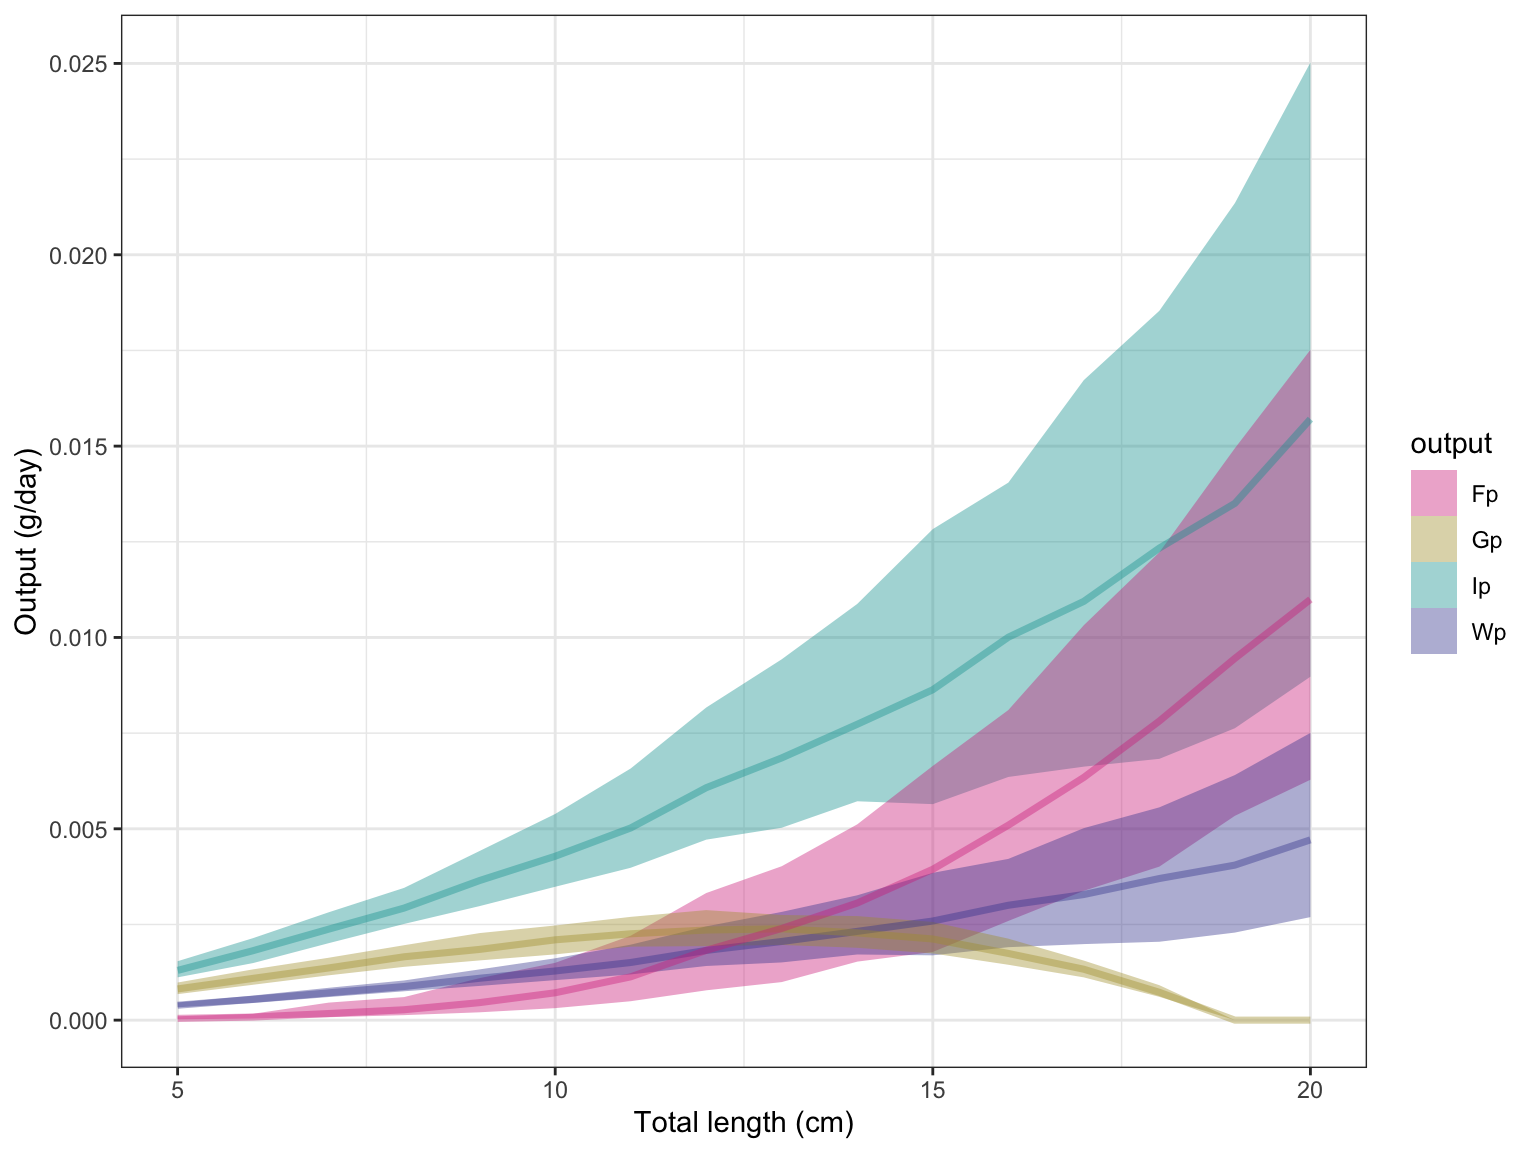
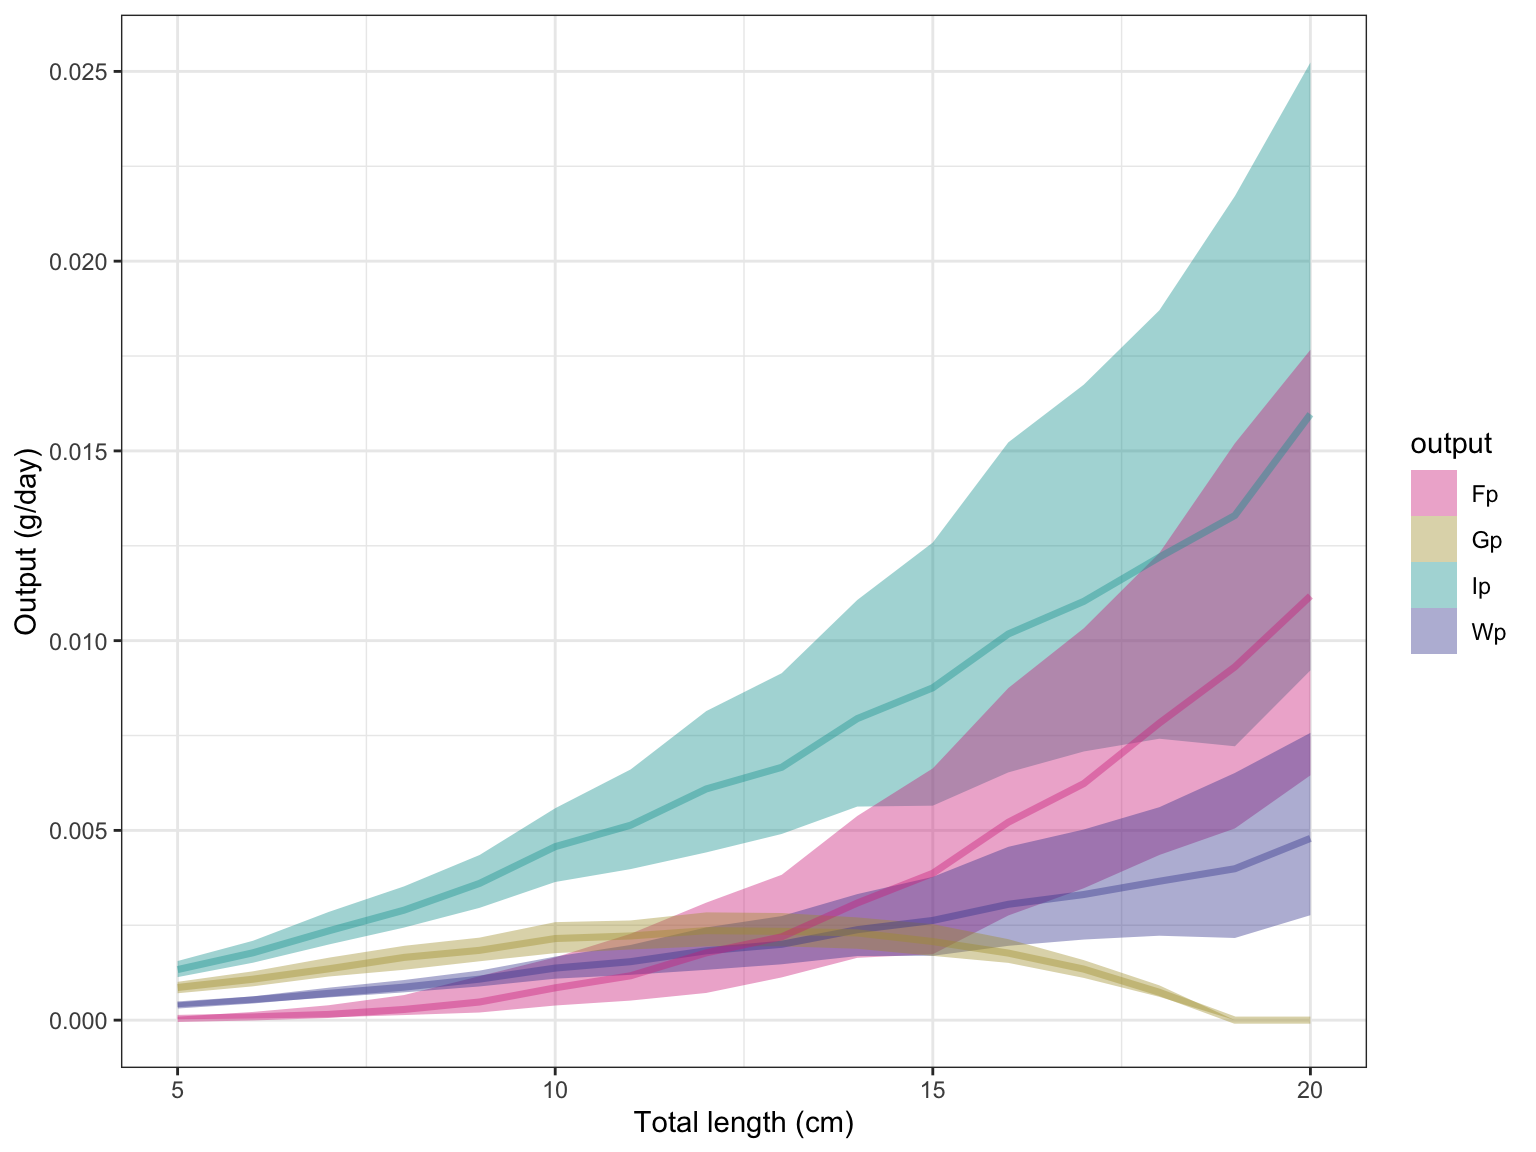
Built site for fishflux: 0.0.0.9001@0e7fffb

diff --git a/articles/intro_to_fishflux.html b/articles/intro_to_fishflux.html
@@ -411,7 +411,7 @@ Elemental stoichiometry of diet
 <span class="co">#&gt;            species    t0 Linf     k     asp troph   lwa_m      lwa_sd lwb_m</span>
 <span class="co">#&gt; 1 Zebrasoma scopas -0.49 13.3 0.425 2.02091     2 0.02455 0.002627551  2.98</span>
 <span class="co">#&gt;      lwb_sd     mdw_m        f0_m        f0_sd alpha_m   alpha_sd</span>
-<span class="co">#&gt; 1 0.0255102 0.2504833 0.001517989 3.082196e-10    0.77 0.05286288</span>
+<span class="co">#&gt; 1 0.0255102 0.2504833 0.001517989 3.251194e-10    0.77 0.05286288</span>
 </pre></div>
 
 <p>All other parameters have to be provided by the user. For more information on how to acquire these parameters, take a look at (“this paper” add reference to methods paper).</p>
@@ -432,56 +432,56 @@ Elemental stoichiometry of diet
 <div class="sourceCode" id="cb10"><pre class="downlit">
 <span class="kw">fishflux</span>::<span class="fu"><a href="../reference/extract.html">extract</a></span>(<span class="kw">model</span>, <span class="fu"><a href="https://rdrr.io/r/base/c.html">c</a></span>(<span class="st">"Fn"</span>,<span class="st">"Fp"</span>))
 <span class="co">#&gt;    TL      Fn_mean    Fn_median        Fn_sd      Fn_2.5%    Fn_97.5%</span>
-<span class="co">#&gt; 1   5 0.0008973864 0.0008402437 0.0004444290 0.0002333421 0.001879536</span>
-<span class="co">#&gt; 2   6 0.0013699344 0.0012438949 0.0007036049 0.0003198092 0.003063905</span>
-<span class="co">#&gt; 3   7 0.0018701050 0.0017496842 0.0008734186 0.0003704064 0.003991807</span>
-<span class="co">#&gt; 4   8 0.0025045966 0.0023291202 0.0012649705 0.0007505127 0.005345092</span>
-<span class="co">#&gt; 5   9 0.0033714890 0.0030543064 0.0017316173 0.0008836630 0.007477043</span>
-<span class="co">#&gt; 6  10 0.0043519150 0.0038948550 0.0022062143 0.0010835466 0.009336949</span>
-<span class="co">#&gt; 7  11 0.0056962724 0.0049892906 0.0032996295 0.0014976045 0.014524364</span>
-<span class="co">#&gt; 8  12 0.0075219479 0.0064295319 0.0043269960 0.0016879479 0.017440315</span>
-<span class="co">#&gt; 9  13 0.0090388529 0.0079362567 0.0057043729 0.0016421816 0.022716046</span>
-<span class="co">#&gt; 10 14 0.0113316157 0.0097980744 0.0070104113 0.0021770264 0.028469653</span>
-<span class="co">#&gt; 11 15 0.0134769548 0.0118222908 0.0087701298 0.0025858053 0.034553215</span>
-<span class="co">#&gt; 12 16 0.0160966227 0.0146063755 0.0101301851 0.0033961903 0.040532437</span>
-<span class="co">#&gt; 13 17 0.0198227059 0.0168801943 0.0133433160 0.0037592839 0.053174221</span>
-<span class="co">#&gt; 14 18 0.0226041481 0.0207471466 0.0143988326 0.0050845503 0.056185557</span>
-<span class="co">#&gt; 15 19 0.0271899699 0.0241148283 0.0173218128 0.0066846655 0.070204920</span>
-<span class="co">#&gt; 16 20 0.0317759587 0.0275741691 0.0196381427 0.0076637917 0.081619745</span>
+<span class="co">#&gt; 1   5 0.0009281694 0.0008659754 0.0004569311 0.0002199826 0.001956606</span>
+<span class="co">#&gt; 2   6 0.0012819426 0.0011783659 0.0005798542 0.0004133299 0.002684022</span>
+<span class="co">#&gt; 3   7 0.0018694803 0.0018053892 0.0008218627 0.0005521829 0.003561672</span>
+<span class="co">#&gt; 4   8 0.0025204011 0.0023085524 0.0012995009 0.0005735142 0.005840968</span>
+<span class="co">#&gt; 5   9 0.0033384245 0.0031103938 0.0016918953 0.0006539831 0.007254373</span>
+<span class="co">#&gt; 6  10 0.0046335154 0.0042371487 0.0023601917 0.0010801570 0.010350598</span>
+<span class="co">#&gt; 7  11 0.0057504984 0.0050394494 0.0031808788 0.0013548120 0.013801743</span>
+<span class="co">#&gt; 8  12 0.0073421369 0.0067742768 0.0041662015 0.0015701969 0.016894169</span>
+<span class="co">#&gt; 9  13 0.0088172976 0.0077278045 0.0053759257 0.0018505833 0.021089698</span>
+<span class="co">#&gt; 10 14 0.0114721462 0.0098725791 0.0069764626 0.0027319266 0.027900179</span>
+<span class="co">#&gt; 11 15 0.0135980894 0.0115994934 0.0093801412 0.0028752909 0.038594147</span>
+<span class="co">#&gt; 12 16 0.0168944415 0.0147250359 0.0105112084 0.0032385315 0.041179640</span>
+<span class="co">#&gt; 13 17 0.0196402448 0.0170246379 0.0121009149 0.0045326671 0.050115652</span>
+<span class="co">#&gt; 14 18 0.0233476791 0.0204928565 0.0150033839 0.0054589316 0.062057033</span>
+<span class="co">#&gt; 15 19 0.0273114734 0.0235886012 0.0175179466 0.0063404065 0.067872156</span>
+<span class="co">#&gt; 16 20 0.0325882222 0.0277891315 0.0202686529 0.0079621075 0.084653380</span>
 <span class="co">#&gt;          Fn_25%      Fn_75%      Fp_mean    Fp_median        Fp_sd      Fp_2.5%</span>
-<span class="co">#&gt; 1  0.0005743745 0.001155313 8.774324e-05 4.643359e-05 0.0001091623 3.165912e-06</span>
-<span class="co">#&gt; 2  0.0008829448 0.001738109 1.558675e-04 8.094844e-05 0.0002016339 5.971360e-06</span>
-<span class="co">#&gt; 3  0.0013060296 0.002308565 2.997282e-04 1.727628e-04 0.0003207941 1.144542e-05</span>
-<span class="co">#&gt; 4  0.0016120786 0.003119120 4.386469e-04 2.718923e-04 0.0004632243 1.420633e-05</span>
-<span class="co">#&gt; 5  0.0020231877 0.004470988 7.160157e-04 4.582179e-04 0.0006796237 2.484443e-05</span>
-<span class="co">#&gt; 6  0.0028177020 0.005644213 1.026195e-03 7.151657e-04 0.0009192770 6.396884e-05</span>
-<span class="co">#&gt; 7  0.0032826562 0.007367547 1.548694e-03 1.132374e-03 0.0013613696 6.926220e-05</span>
-<span class="co">#&gt; 8  0.0043257624 0.009811102 2.226647e-03 1.824850e-03 0.0017800337 1.711531e-04</span>
-<span class="co">#&gt; 9  0.0045723736 0.012032063 2.858262e-03 2.396093e-03 0.0023108097 1.754942e-04</span>
-<span class="co">#&gt; 10 0.0060479773 0.014912618 3.731213e-03 3.060895e-03 0.0027929688 3.256895e-04</span>
-<span class="co">#&gt; 11 0.0061185375 0.018799686 4.649709e-03 3.942666e-03 0.0035084212 5.327552e-04</span>
-<span class="co">#&gt; 12 0.0080802405 0.021537310 5.832048e-03 5.094483e-03 0.0040833045 6.400054e-04</span>
-<span class="co">#&gt; 13 0.0095142853 0.026677803 7.437573e-03 6.343476e-03 0.0052930801 1.154052e-03</span>
-<span class="co">#&gt; 14 0.0107903820 0.031459901 8.746435e-03 7.815710e-03 0.0057493792 1.771473e-03</span>
-<span class="co">#&gt; 15 0.0134425896 0.037652720 1.082054e-02 9.453162e-03 0.0069252565 2.631722e-03</span>
-<span class="co">#&gt; 16 0.0157553289 0.043595604 1.260758e-02 1.099442e-02 0.0078172926 3.035192e-03</span>
-<span class="co">#&gt;       Fp_97.5%       Fp_25%       Fp_75%</span>
-<span class="co">#&gt; 1  0.000423921 2.245866e-05 0.0001013118</span>
-<span class="co">#&gt; 2  0.000796311 4.136876e-05 0.0001672309</span>
-<span class="co">#&gt; 3  0.001222921 7.644075e-05 0.0004579868</span>
-<span class="co">#&gt; 4  0.001723362 1.306619e-04 0.0006028123</span>
-<span class="co">#&gt; 5  0.002534029 2.049061e-04 0.0010982272</span>
-<span class="co">#&gt; 6  0.003317567 3.140242e-04 0.0014980154</span>
-<span class="co">#&gt; 7  0.005230469 4.946776e-04 0.0022069960</span>
-<span class="co">#&gt; 8  0.006374361 7.793924e-04 0.0033215973</span>
-<span class="co">#&gt; 9  0.008659369 9.951417e-04 0.0040224937</span>
-<span class="co">#&gt; 10 0.010959376 1.529210e-03 0.0051170303</span>
-<span class="co">#&gt; 11 0.013152782 1.782154e-03 0.0066432597</span>
-<span class="co">#&gt; 12 0.015201655 2.592387e-03 0.0081035034</span>
-<span class="co">#&gt; 13 0.020238837 3.380110e-03 0.0103206930</span>
-<span class="co">#&gt; 14 0.022597260 4.012156e-03 0.0122250775</span>
-<span class="co">#&gt; 15 0.028374390 5.339702e-03 0.0149444788</span>
-<span class="co">#&gt; 16 0.032135296 6.282571e-03 0.0175172456</span>
+<span class="co">#&gt; 1  0.0006098399 0.001177332 8.342372e-05 4.476996e-05 0.0001042289 2.442238e-06</span>
+<span class="co">#&gt; 2  0.0008765401 0.001625477 1.624133e-04 8.568733e-05 0.0001878046 5.370838e-06</span>
+<span class="co">#&gt; 3  0.0012444900 0.002383563 2.742967e-04 1.507626e-04 0.0002938958 8.982261e-06</span>
+<span class="co">#&gt; 4  0.0016463066 0.003167944 4.756463e-04 2.815605e-04 0.0004991528 1.642529e-05</span>
+<span class="co">#&gt; 5  0.0021497741 0.004190879 7.368006e-04 4.785230e-04 0.0006974520 3.028640e-05</span>
+<span class="co">#&gt; 6  0.0029549240 0.005928661 1.134010e-03 8.512178e-04 0.0009566593 5.010628e-05</span>
+<span class="co">#&gt; 7  0.0033379343 0.007377014 1.547431e-03 1.170286e-03 0.0012673631 1.144489e-04</span>
+<span class="co">#&gt; 8  0.0039461089 0.009955279 2.140757e-03 1.773340e-03 0.0016909116 1.718569e-04</span>
+<span class="co">#&gt; 9  0.0047229149 0.011768260 2.716215e-03 2.195573e-03 0.0021140953 1.954099e-04</span>
+<span class="co">#&gt; 10 0.0060890675 0.015629586 3.805222e-03 3.086531e-03 0.0028227781 4.221331e-04</span>
+<span class="co">#&gt; 11 0.0063229858 0.018261827 4.705750e-03 3.869831e-03 0.0037605951 4.365811e-04</span>
+<span class="co">#&gt; 12 0.0085259859 0.023272454 6.105803e-03 5.215040e-03 0.0041804130 6.826402e-04</span>
+<span class="co">#&gt; 13 0.0099568078 0.026725322 7.375689e-03 6.234409e-03 0.0048734543 1.271907e-03</span>
+<span class="co">#&gt; 14 0.0119001184 0.031605635 9.060092e-03 7.827924e-03 0.0060207850 1.877304e-03</span>
+<span class="co">#&gt; 15 0.0127908758 0.038023313 1.084308e-02 9.309632e-03 0.0069654747 2.525014e-03</span>
+<span class="co">#&gt; 16 0.0162165097 0.043851835 1.296883e-02 1.117617e-02 0.0080593285 3.201843e-03</span>
+<span class="co">#&gt;        Fp_97.5%       Fp_25%       Fp_75%</span>
+<span class="co">#&gt; 1  0.0003636682 2.309581e-05 9.173055e-05</span>
+<span class="co">#&gt; 2  0.0006584219 4.336034e-05 2.169618e-04</span>
+<span class="co">#&gt; 3  0.0010934448 7.243350e-05 3.930033e-04</span>
+<span class="co">#&gt; 4  0.0017098075 1.337231e-04 6.617568e-04</span>
+<span class="co">#&gt; 5  0.0025167948 2.016068e-04 1.160095e-03</span>
+<span class="co">#&gt; 6  0.0035044677 3.854189e-04 1.654114e-03</span>
+<span class="co">#&gt; 7  0.0046112883 5.160084e-04 2.276485e-03</span>
+<span class="co">#&gt; 8  0.0060888384 7.168290e-04 3.096195e-03</span>
+<span class="co">#&gt; 9  0.0078415927 1.126542e-03 3.830504e-03</span>
+<span class="co">#&gt; 10 0.0106340646 1.642232e-03 5.380117e-03</span>
+<span class="co">#&gt; 11 0.0141158779 1.737974e-03 6.634556e-03</span>
+<span class="co">#&gt; 12 0.0161140540 2.758546e-03 8.751484e-03</span>
+<span class="co">#&gt; 13 0.0193733987 3.475924e-03 1.032715e-02</span>
+<span class="co">#&gt; 14 0.0241340519 4.352340e-03 1.230944e-02</span>
+<span class="co">#&gt; 15 0.0264322444 5.051853e-03 1.519994e-02</span>
+<span class="co">#&gt; 16 0.0334280069 6.451905e-03 1.766444e-02</span>
 </pre></div>
 
 </div>
@@ -503,45 +503,45 @@ Elemental stoichiometry of diet
 #&gt; 6  10        c    0.000
 #&gt; 7  11        c    0.000
 #&gt; 8  12        c    0.002
-#&gt; 9  13        c    0.002
-#&gt; 10 14        c    0.002
-#&gt; 11 15        c    0.014
-#&gt; 12 16        c    0.036
+#&gt; 9  13        c    0.006
+#&gt; 10 14        c    0.004
+#&gt; 11 15        c    0.022
+#&gt; 12 16        c    0.034
 #&gt; 13 17        c    0.070
-#&gt; 14 18        c    0.116
-#&gt; 15 19        c    0.168
-#&gt; 16 20        c    0.162
-#&gt; 17  5        n    0.356
-#&gt; 18  6        n    0.378
-#&gt; 19  7        n    0.498
-#&gt; 20  8        n    0.540
-#&gt; 21  9        n    0.624
-#&gt; 22 10        n    0.678
-#&gt; 23 11        n    0.734
-#&gt; 24 12        n    0.770
-#&gt; 25 13        n    0.802
-#&gt; 26 14        n    0.840
-#&gt; 27 15        n    0.830
-#&gt; 28 16        n    0.842
-#&gt; 29 17        n    0.862
-#&gt; 30 18        n    0.838
-#&gt; 31 19        n    0.818
-#&gt; 32 20        n    0.822
-#&gt; 33  5        p    0.644
-#&gt; 34  6        p    0.622
-#&gt; 35  7        p    0.502
-#&gt; 36  8        p    0.460
-#&gt; 37  9        p    0.376
-#&gt; 38 10        p    0.322
-#&gt; 39 11        p    0.266
-#&gt; 40 12        p    0.228
-#&gt; 41 13        p    0.196
-#&gt; 42 14        p    0.158
-#&gt; 43 15        p    0.156
-#&gt; 44 16        p    0.122
-#&gt; 45 17        p    0.068
-#&gt; 46 18        p    0.046
-#&gt; 47 19        p    0.014
+#&gt; 14 18        c    0.112
+#&gt; 15 19        c    0.140
+#&gt; 16 20        c    0.140
+#&gt; 17  5        n    0.340
+#&gt; 18  6        n    0.410
+#&gt; 19  7        n    0.482
+#&gt; 20  8        n    0.560
+#&gt; 21  9        n    0.620
+#&gt; 22 10        n    0.710
+#&gt; 23 11        n    0.738
+#&gt; 24 12        n    0.786
+#&gt; 25 13        n    0.810
+#&gt; 26 14        n    0.846
+#&gt; 27 15        n    0.820
+#&gt; 28 16        n    0.854
+#&gt; 29 17        n    0.878
+#&gt; 30 18        n    0.858
+#&gt; 31 19        n    0.832
+#&gt; 32 20        n    0.844
+#&gt; 33  5        p    0.660
+#&gt; 34  6        p    0.590
+#&gt; 35  7        p    0.518
+#&gt; 36  8        p    0.440
+#&gt; 37  9        p    0.380
+#&gt; 38 10        p    0.290
+#&gt; 39 11        p    0.262
+#&gt; 40 12        p    0.212
+#&gt; 41 13        p    0.184
+#&gt; 42 14        p    0.150
+#&gt; 43 15        p    0.158
+#&gt; 44 16        p    0.112
+#&gt; 45 17        p    0.052
+#&gt; 46 18        p    0.030
+#&gt; 47 19        p    0.028
 #&gt; 48 20        p    0.016
 ## Plot one variable:
 fishflux::plot_cnp(model,  y = "Fp", x = "tl", probs = c(0.5, 0.8, 0.95))</a></code></pre>
@@ -562,11 +562,11 @@ fishflux::plot_cnp(model,  y = "Fp", x = "tl", probs = c(0.5, 0.8, 0.95))</a></c
 </pre></div>
 <p><img src="intro_to_fishflux_files/figure-html/unnamed-chunk-10-1.png" width="768"></p>
 <pre><code>#&gt;              Fn_CI        Fp_CI        Ic_CI
-#&gt; Dn_sd 2.058976e-10 2.551042e-04 9.110864e-03
-#&gt; Dp_sd 2.059130e-10 8.262688e-04 2.157538e-09
-#&gt; Qn_sd 1.888784e-03 7.371327e-04 2.632617e-02
-#&gt; Qp_sd 1.946959e-10 7.479900e-04 2.031254e-09
-#&gt; k_sd  1.917785e-10 9.609129e-05 9.239552e-03</code></pre>
+#&gt; Dn_sd 1.990538e-10 0.0002590937 9.253345e-03
+#&gt; Dp_sd 1.884552e-10 0.0008074567 1.982663e-09
+#&gt; Qn_sd 2.025775e-03 0.0007905962 2.823558e-02
+#&gt; Qp_sd 2.024427e-10 0.0007396764 2.060859e-09
+#&gt; k_sd  1.959368e-10 0.0001082031 1.040415e-02</code></pre>
 
 </div>
 </div>

diff --git a/reference/extract.html b/reference/extract.html
@@ -174,24 +174,24 @@
     <h2 class="hasAnchor" id="examples"><a class="anchor" href="#examples"></a>Examples</h2>
     <pre class="examples"><div class='input'><span class='kw'>model</span> <span class='op'>&lt;-</span> <span class='fu'><a href='https://rdrr.io/pkg/fishflux/man/cnp_model_mcmc.html'>cnp_model_mcmc</a></span>(TL = <span class='fl'>5</span><span class='op'>:</span><span class='fl'>10</span>, param = <span class='fu'><a href='https://rdrr.io/r/base/list.html'>list</a></span>(Qc_m = <span class='fl'>40</span>, Qn_m = <span class='fl'>10</span>, Qp_m = <span class='fl'>4</span>))
 <span class='fu'><a href='https://rdrr.io/pkg/fishflux/man/extract.html'>extract</a></span>(<span class='kw'>model</span>, <span class='fu'><a href='https://rdrr.io/r/base/c.html'>c</a></span>(<span class='st'>"Fn"</span>,<span class='st'>"Fp"</span>))</div><div class='output co'>#&gt;   TL      Fn_mean    Fn_median        Fn_sd      Fn_2.5%     Fn_97.5%
-#&gt; 1  5 0.0006047886 0.0006047886 6.076874e-12 0.0006047886 0.0006047886
-#&gt; 2  6 0.0010610097 0.0010610097 1.074403e-11 0.0010610097 0.0010610097
-#&gt; 3  7 0.0017065393 0.0017065393 1.664326e-11 0.0017065393 0.0017065394
-#&gt; 4  8 0.0025757605 0.0025757605 2.578072e-11 0.0025757604 0.0025757605
-#&gt; 5  9 0.0037034689 0.0037034689 3.691794e-11 0.0037034688 0.0037034690
-#&gt; 6 10 0.0051248251 0.0051248251 5.204258e-11 0.0051248250 0.0051248252
+#&gt; 1  5 0.0006047886 0.0006047886 6.190406e-12 0.0006047886 0.0006047886
+#&gt; 2  6 0.0010610097 0.0010610097 1.008557e-11 0.0010610097 0.0010610097
+#&gt; 3  7 0.0017065393 0.0017065393 1.765377e-11 0.0017065393 0.0017065394
+#&gt; 4  8 0.0025757605 0.0025757605 2.526267e-11 0.0025757604 0.0025757605
+#&gt; 5  9 0.0037034689 0.0037034689 3.741374e-11 0.0037034688 0.0037034690
+#&gt; 6 10 0.0051248251 0.0051248251 4.943002e-11 0.0051248250 0.0051248252
 #&gt;         Fn_25%       Fn_75%      Fp_mean    Fp_median        Fp_sd      Fp_2.5%
-#&gt; 1 0.0006047886 0.0006047886 0.0001097965 0.0001097965 1.778061e-12 0.0001097965
-#&gt; 2 0.0010610097 0.0010610097 0.0002186548 0.0002186548 3.132011e-12 0.0002186548
-#&gt; 3 0.0017065393 0.0017065394 0.0003815567 0.0003815567 4.864945e-12 0.0003815567
-#&gt; 4 0.0025757605 0.0025757605 0.0006096826 0.0006096826 7.525218e-12 0.0006096826
-#&gt; 5 0.0037034689 0.0037034689 0.0009143614 0.0009143614 1.075157e-11 0.0009143614
-#&gt; 6 0.0051248250 0.0051248251 0.0013070515 0.0013070515 1.518817e-11 0.0013070515
+#&gt; 1 0.0006047886 0.0006047886 0.0001097965 0.0001097965 1.802891e-12 0.0001097965
+#&gt; 2 0.0010610097 0.0010610097 0.0002186548 0.0002186548 2.933919e-12 0.0002186548
+#&gt; 3 0.0017065393 0.0017065394 0.0003815567 0.0003815567 5.148087e-12 0.0003815567
+#&gt; 4 0.0025757605 0.0025757605 0.0006096826 0.0006096826 7.370153e-12 0.0006096826
+#&gt; 5 0.0037034689 0.0037034689 0.0009143614 0.0009143614 1.092804e-11 0.0009143614
+#&gt; 6 0.0051248250 0.0051248251 0.0013070515 0.0013070515 1.440788e-11 0.0013070515
 #&gt;       Fp_97.5%       Fp_25%       Fp_75%
 #&gt; 1 0.0001097965 0.0001097965 0.0001097965
 #&gt; 2 0.0002186548 0.0002186548 0.0002186548
 #&gt; 3 0.0003815567 0.0003815567 0.0003815567
-#&gt; 4 0.0006096826 0.0006096826 0.0006096826
+#&gt; 4 0.0006096827 0.0006096826 0.0006096826
 #&gt; 5 0.0009143614 0.0009143614 0.0009143614
 #&gt; 6 0.0013070515 0.0013070515 0.0013070515</div><div class='input'></div></pre>
   </div>

diff --git a/reference/sensitivity.html b/reference/sensitivity.html
@@ -176,9 +176,9 @@ Plots a heatplot with width of the 95<!-- %CI of output predictions. --></p>
     <pre class="examples"><div class='input'><span class='fu'><a href='https://rdrr.io/r/base/library.html'>library</a></span>(<span class='kw'><a href='https://nschiett.github.io/fishflux'>fishflux</a></span>)
 <span class='fu'><a href='https://rdrr.io/pkg/fishflux/man/sensitivity.html'>sensitivity</a></span>(TL = <span class='fl'>10</span>, param = <span class='fu'><a href='https://rdrr.io/r/base/list.html'>list</a></span>(k_sd = <span class='fl'>0.2</span>, Dn_sd = <span class='fl'>0.2</span>, Dc_sd = <span class='fl'>0.1</span>),
             par = <span class='fu'><a href='https://rdrr.io/r/base/c.html'>c</a></span>(<span class='st'>"k_sd"</span>,<span class='st'>"Dn_sd"</span>,<span class='st'>"Dc_sd"</span>), out = <span class='fu'><a href='https://rdrr.io/r/base/c.html'>c</a></span>(<span class='st'>"Ic"</span>, <span class='st'>"In"</span>, <span class='st'>"Ip"</span>, <span class='st'>"Gc"</span>))</div><div class='output co'>#&gt; <span class='message'>Joining, by = "key"</span></div><div class='img'><img src='sensitivity-1.png' alt='' width='700' height='433' /></div><div class='output co'>#&gt;            Ic_CI        In_CI        Ip_CI        Gc_CI
-#&gt; k_sd  0.03228690 3.874427e-03 1.291476e-03 1.239817e-02
-#&gt; Dn_sd 0.25753428 7.008958e-03 1.030137e-02 6.312968e-11
-#&gt; Dc_sd 0.01046965 2.537449e-10 8.465450e-11 7.414066e-11</div><div class='input'></div></pre>
+#&gt; k_sd  0.03087294 3.704753e-03 1.234918e-03 1.185521e-02
+#&gt; Dn_sd 0.21078069 4.744706e-03 8.431228e-03 7.335894e-11
+#&gt; Dc_sd 0.01066133 2.523668e-10 8.421826e-11 7.014613e-11</div><div class='input'></div></pre>
   </div>
   <div class="col-md-3 hidden-xs hidden-sm" id="pkgdown-sidebar">
     <nav id="toc" data-toggle="toc" class="sticky-top">

diff --git a/reference/limitation.html b/reference/limitation.html
@@ -172,8 +172,8 @@
 #&gt; Chain 1: Iteration: 1000 / 1000 [100%]  (Sampling)
 #&gt; Chain 1: 
 #&gt; Chain 1:  Elapsed Time: 0 seconds (Warm-up)
-#&gt; Chain 1:                0.014335 seconds (Sampling)
-#&gt; Chain 1:                0.014335 seconds (Total)
+#&gt; Chain 1:                0.014086 seconds (Sampling)
+#&gt; Chain 1:                0.014086 seconds (Total)
 #&gt; Chain 1: </div><div class='input'><span class='fu'><a href='https://rdrr.io/pkg/fishflux/man/limitation.html'>limitation</a></span>(<span class='kw'>mod</span>)</div><div class='output co'>#&gt; <span class='message'>geom_path: Each group consists of only one observation. Do you need to adjust</span>
 #&gt; <span class='message'>the group aesthetic?</span></div><div class='img'><img src='limitation-1.png' alt='' width='700' height='433' /></div><div class='output co'>#&gt;   tl nutrient prop_lim
 #&gt; 1  5        c    0.000

diff --git a/reference/model_parameters.html b/reference/model_parameters.html
@@ -177,8 +177,8 @@
 #&gt; Chain 1: Iteration: 1000 / 1000 [100%]  (Sampling)
 #&gt; Chain 1: 
 #&gt; Chain 1:  Elapsed Time: 0 seconds (Warm-up)
-#&gt; Chain 1:                0.001384 seconds (Sampling)
-#&gt; Chain 1:                0.001384 seconds (Total)
+#&gt; Chain 1:                0.001448 seconds (Sampling)
+#&gt; Chain 1:                0.001448 seconds (Total)
 #&gt; Chain 1: </div><div class='output co'>#&gt;            species      t0  Linf     k     asp troph   lwa_m      lwa_sd lwb_m
 #&gt; 1 Scarus psittacus -0.6025 23.05 0.814 1.80877     2 0.01585 0.001760204  3.06
 #&gt;       lwb_sd     mdw_m        f0_m        f0_sd alpha_m   alpha_sd

diff --git a/reference/metabolism.html b/reference/metabolism.html
@@ -181,8 +181,8 @@ a covariate.</p>
 #&gt; Chain 1: Iteration: 1000 / 1000 [100%]  (Sampling)
 #&gt; Chain 1: 
 #&gt; Chain 1:  Elapsed Time: 0 seconds (Warm-up)
-#&gt; Chain 1:                0.001433 seconds (Sampling)
-#&gt; Chain 1:                0.001433 seconds (Total)
+#&gt; Chain 1:                0.001479 seconds (Sampling)
+#&gt; Chain 1:                0.001479 seconds (Total)
 #&gt; Chain 1: </div><div class='output co'>#&gt;          f0_m       f0_sd   alpha_m  alpha_sd        b0_m        b0_sd
 #&gt; 1 0.004528457 0.002004058 0.4256931 0.1035894 0.001415727 0.0006612888</div><div class='input'></div></pre>
   </div>

diff --git a/reference/cnp_model_mcmc.html b/reference/cnp_model_mcmc.html
@@ -213,8 +213,8 @@ Qc_m = <span class='fl'>40</span>, Qn_m = <span class='fl'>10</span>, Qp_m = <sp
 #&gt; Chain 1: Iteration: 1000 / 1000 [100%]  (Sampling)
 #&gt; Chain 1: 
 #&gt; Chain 1:  Elapsed Time: 0 seconds (Warm-up)
-#&gt; Chain 1:                0.014286 seconds (Sampling)
-#&gt; Chain 1:                0.014286 seconds (Total)
+#&gt; Chain 1:                0.013998 seconds (Sampling)
+#&gt; Chain 1:                0.013998 seconds (Total)
 #&gt; Chain 1: </div><div class='input'></div></pre>
   </div>
   <div class="col-md-3 hidden-xs hidden-sm" id="pkgdown-sidebar">
